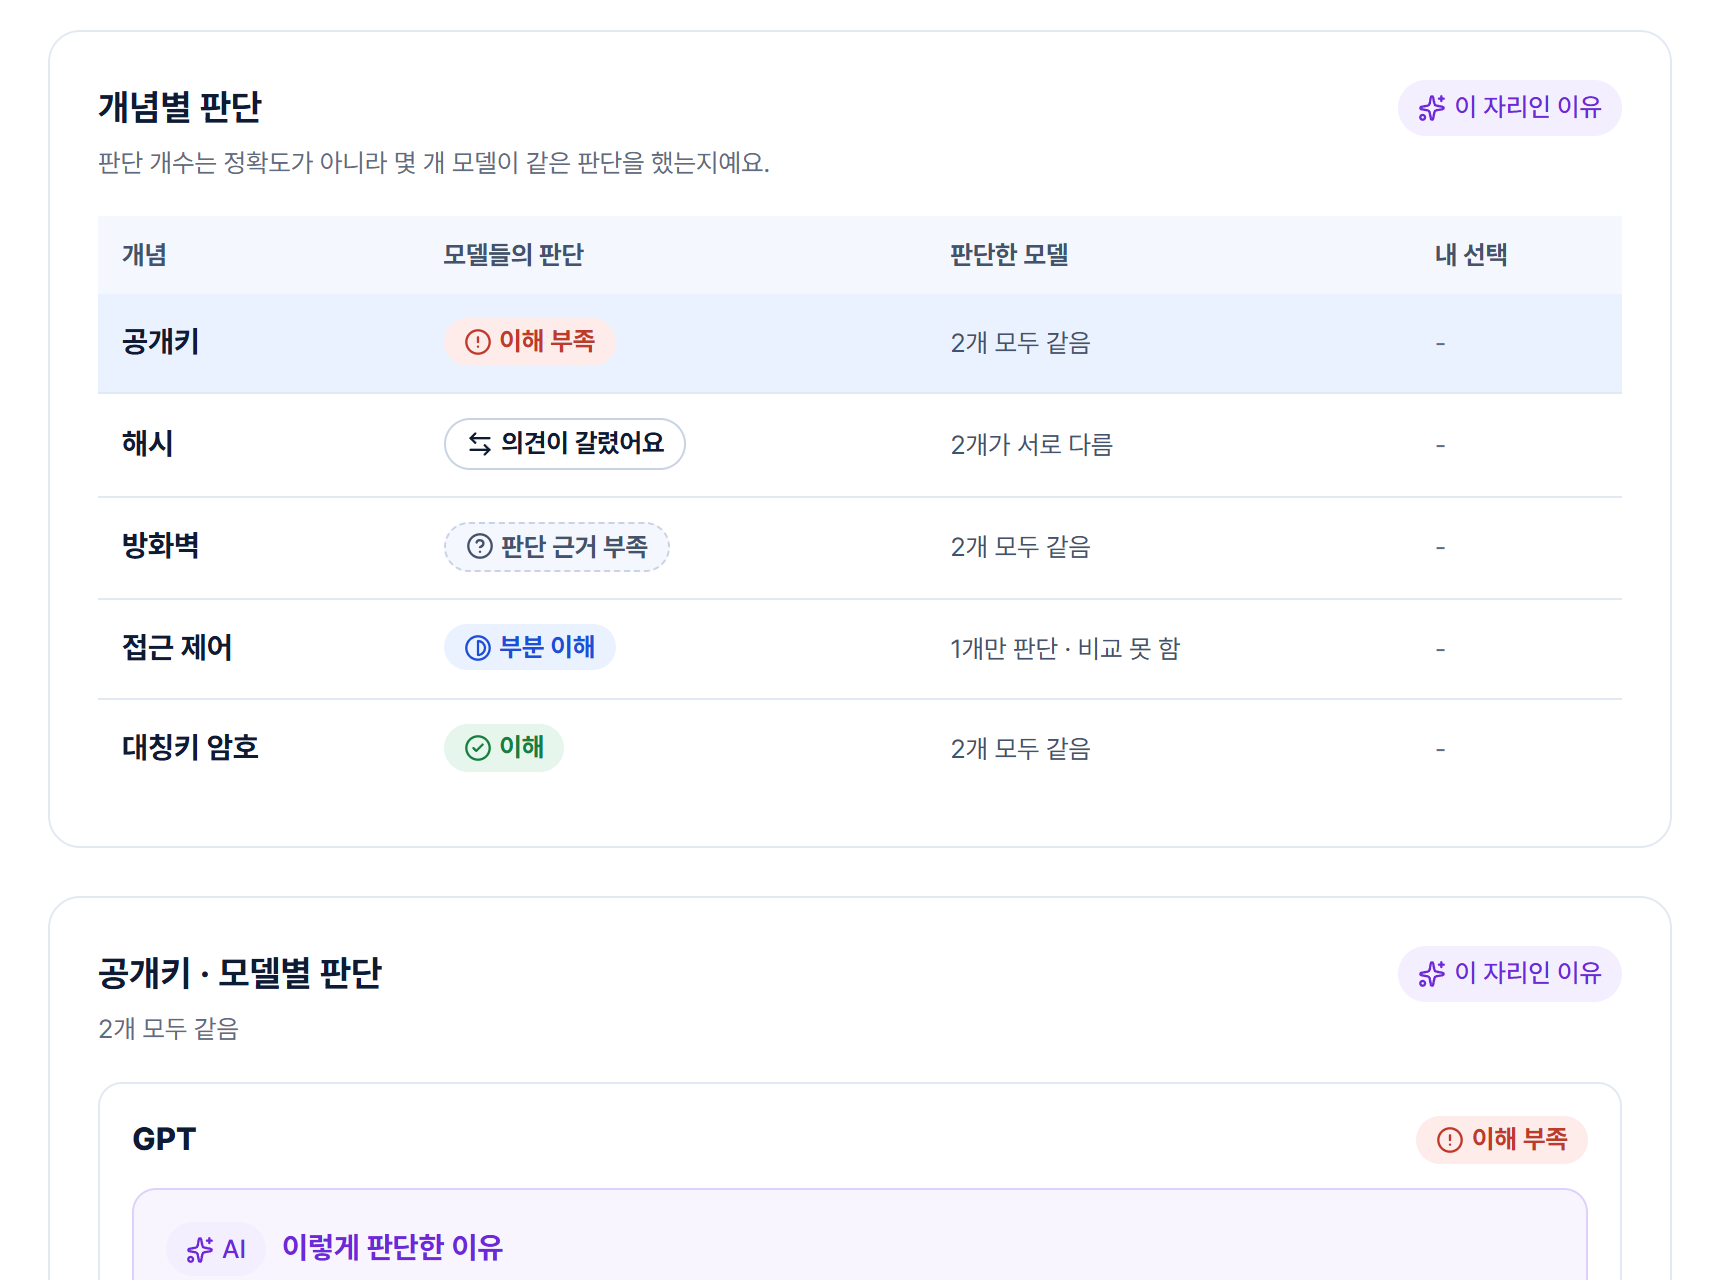
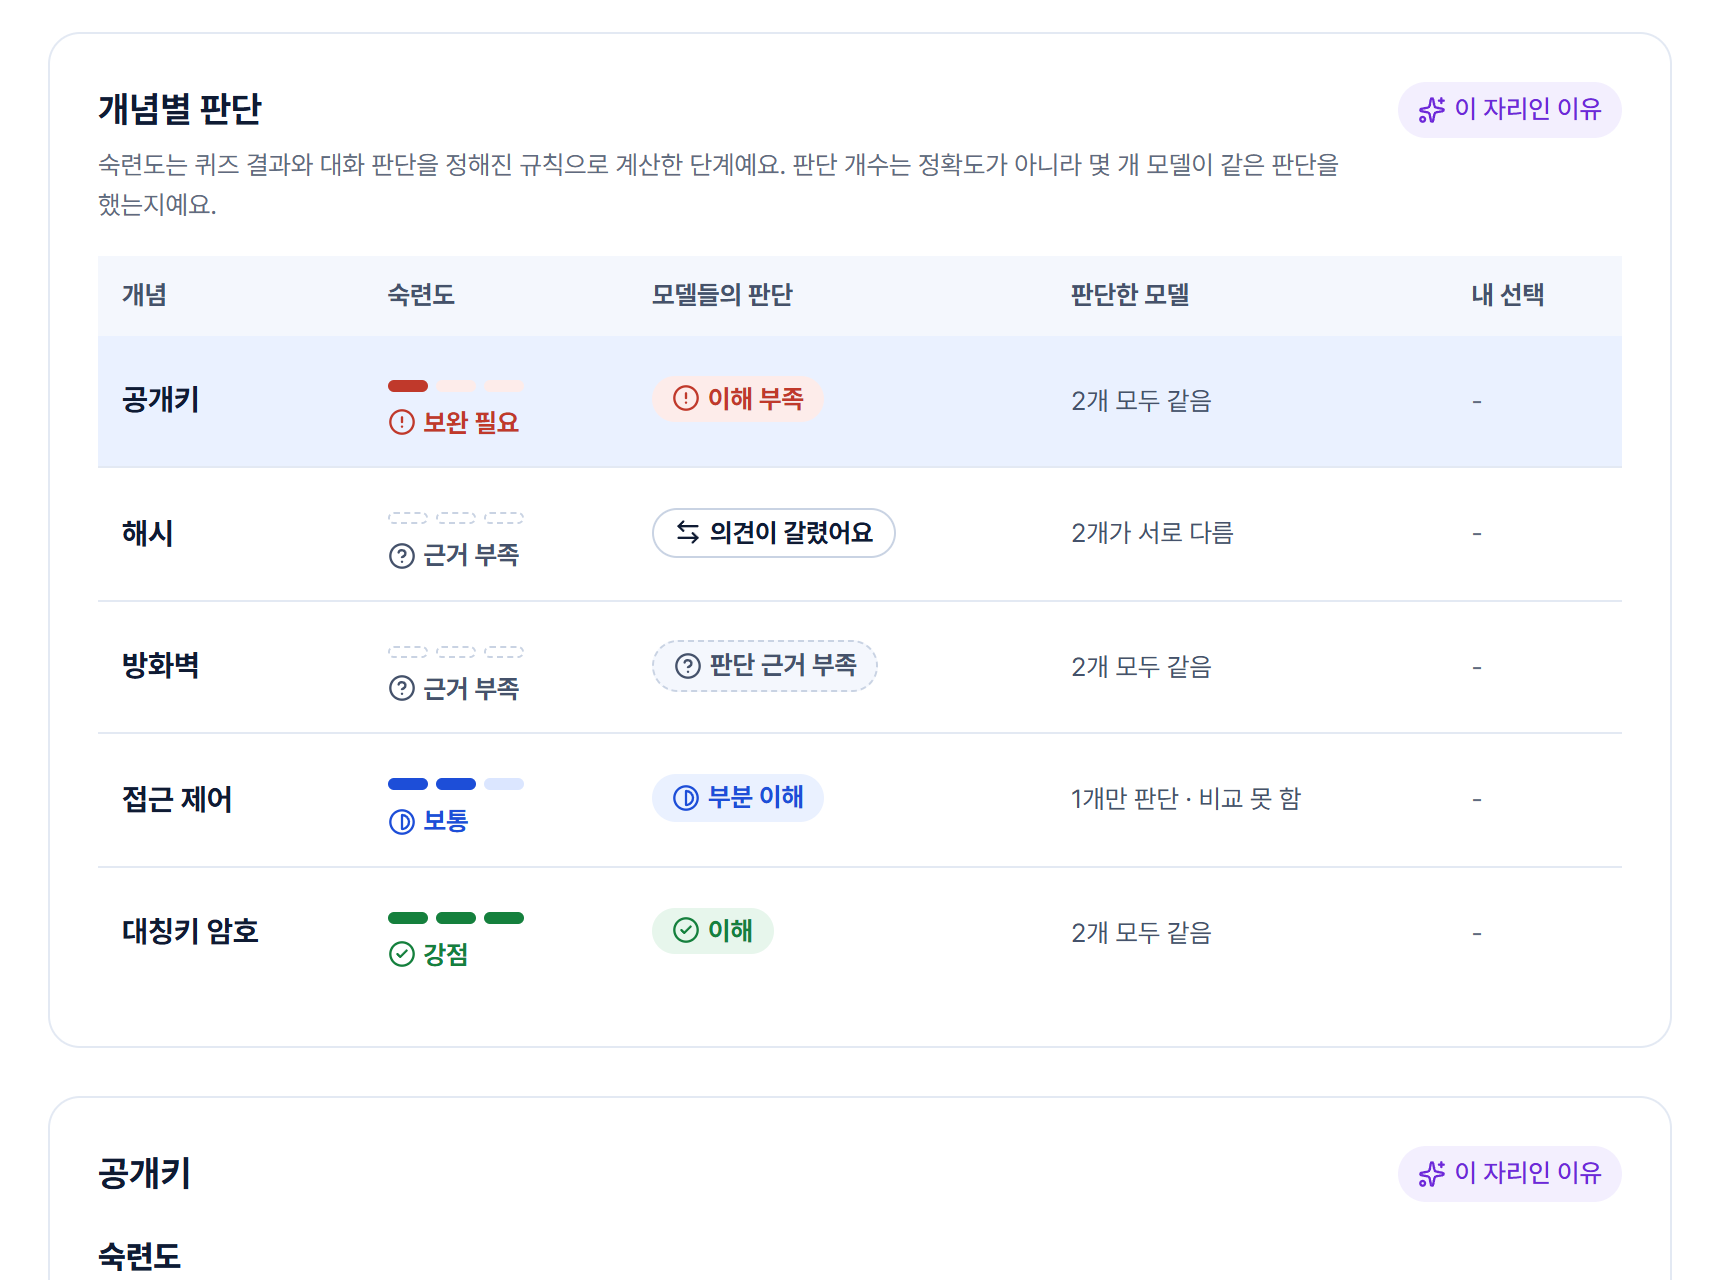
docs: README 대시보드 캡처를 숙련도 칸이 있는 화면으로 다시 찍기 (#130)
- docs/images/screen-dashboard.png: 목업 대시보드 개념별 판단 표(숙련도 칸 포함), 860px·2배
- 주요 화면 설명과 대체 텍스트에 숙련도 단계 반영

diff --git a/README.md b/README.md
@@ -42,9 +42,9 @@
 <table>
   <tr>
     <td width="50%" valign="top">
-      <img src="docs/images/screen-dashboard.png" alt="학습 대시보드의 개념별 판단 표: 개념마다 모델들의 판단(이해 부족, 의견이 갈렸어요, 판단 근거 부족, 부분 이해, 이해)과 같은 판단을 한 모델 수" width="100%"><br>
+      <img src="docs/images/screen-dashboard.png" alt="학습 대시보드의 개념별 판단 표: 개념마다 숙련도 단계(보완 필요, 근거 부족, 보통, 강점), 모델들의 판단(이해 부족, 의견이 갈렸어요, 판단 근거 부족, 부분 이해, 이해)과 같은 판단을 한 모델 수" width="100%"><br>
       <b>학습 대시보드</b><br>
-      개념마다 모델들의 판단과, 몇 개 모델이 같은 판단을 했는지 보여 줍니다.
+      개념마다 규칙으로 계산한 숙련도 단계와 모델들의 판단, 몇 개 모델이 같은 판단을 했는지 보여 줍니다.
     </td>
     <td width="50%" valign="top">
       <img src="docs/images/screen-import-select.png" alt="공부한 대화 고르기: 내 과목 키워드로 대화를 과목별로 나눈 목록" width="100%"><br>
